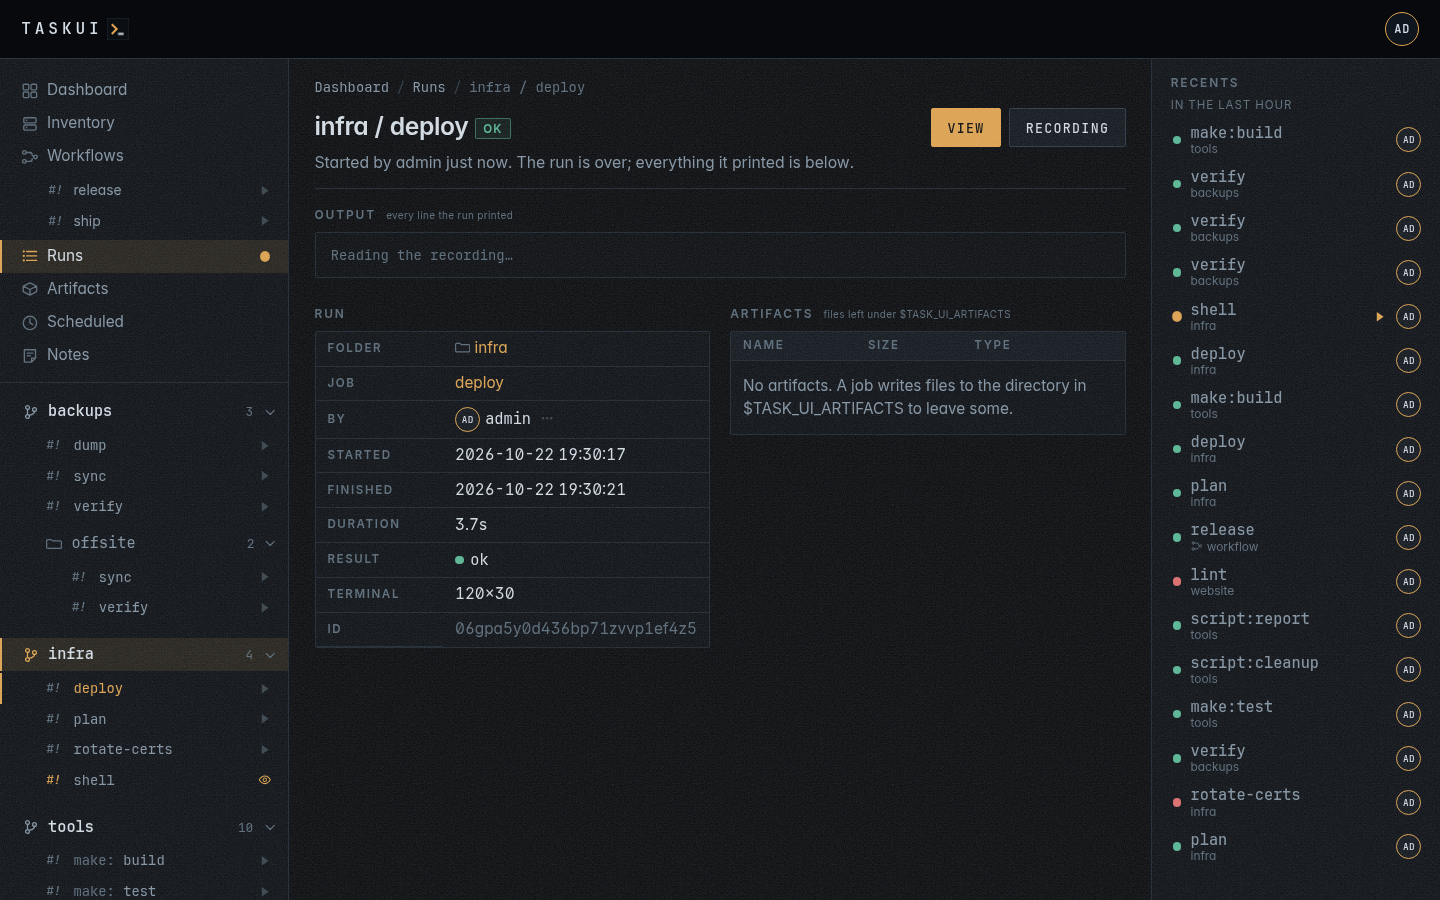
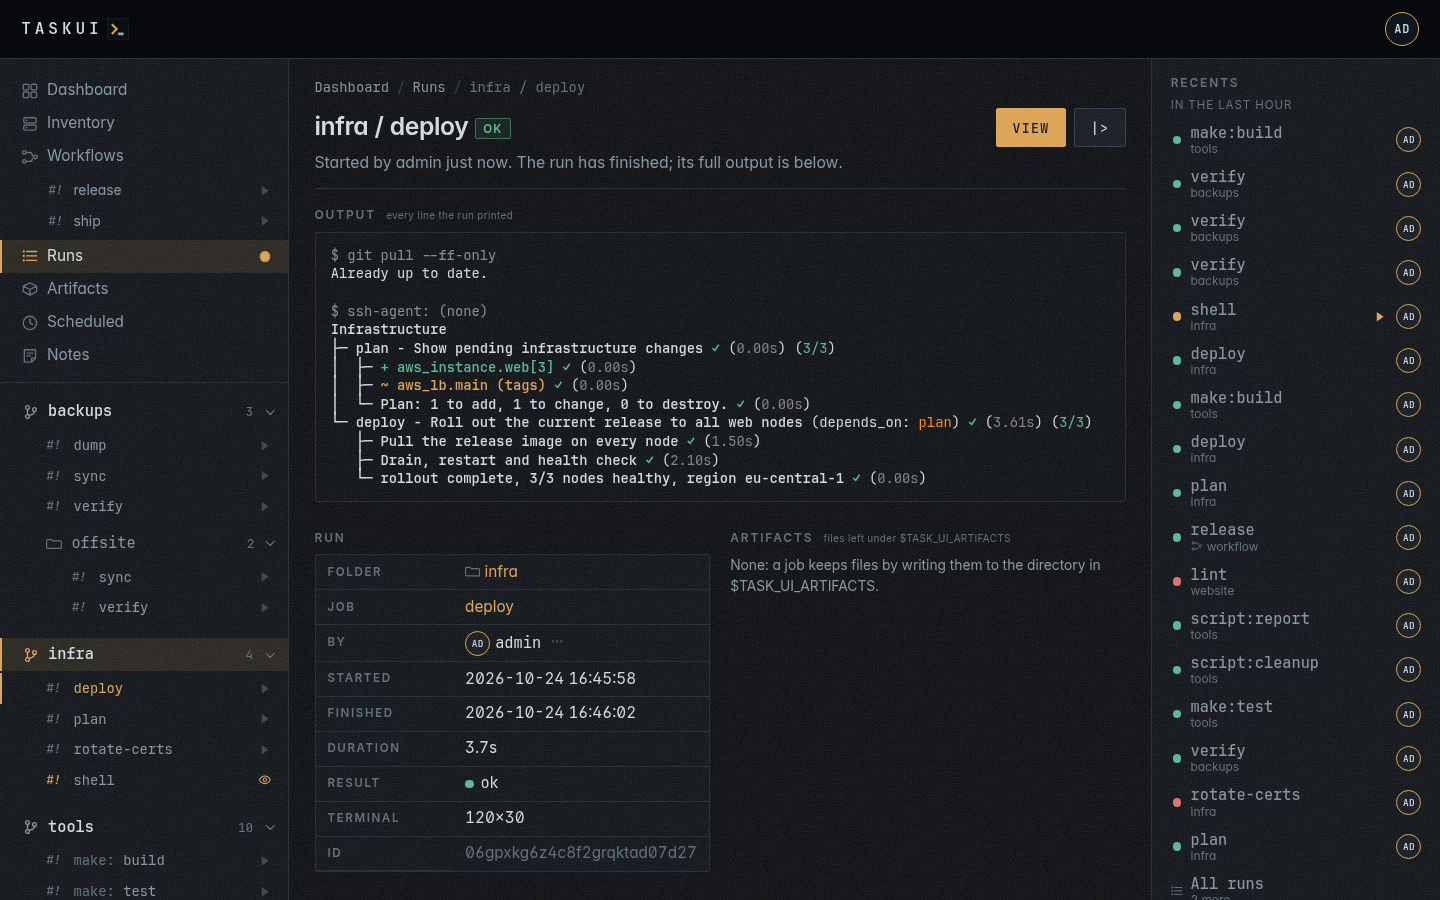
Run page: no Recording download; /cast serves the recording inline to the page's replay and output alone

diff --git a/frontend/retention_integration_test.go b/frontend/retention_integration_test.go
@@ -68,8 +68,7 @@ func TestDataRetention(t *testing.T) {
 	assert.Equal(t, http.StatusForbidden, f.get(t, asViewer, "/settings/retention").Status)
 }
 
-// A run whose recording expired says so on its page, with no Replay and
-// no Recording download.
+// A run whose recording expired says so on its page, with no Replay.
 func TestRun_ExpiredRecording(t *testing.T) {
 	t.Parallel()
 	f := newFixture(t)
@@ -78,6 +77,5 @@ func TestRun_ExpiredRecording(t *testing.T) {
 	assert.Contains(t, body, "The run has finished; its recording expired.")
 	assert.Contains(t, body, "The recording of this run expired under the Data retention settings")
 	assert.NotContains(t, body, `data-replay="`+run.ID+`"`)
-	assert.NotContains(t, body, `/api/runs/`+run.ID+`/cast" download`)
 	assert.NotContains(t, body, `data-output="`+run.ID+`"`)
 }

diff --git a/frontend/view/run_test.go b/frontend/view/run_test.go
@@ -54,3 +54,21 @@ func TestRender_runTitle(t *testing.T) {
 		assert.Contains(t, html, `id="run-subtitle"`, name)
 	}
 }
+
+// A finished run's page replays its recording and reads it into Output,
+// and links no .cast to download.
+func TestRender_runRecording(t *testing.T) {
+	t.Parallel()
+	v, err := view.New()
+	assert.NoError(t, err)
+	page := admin(t)
+	page.Run.State, page.Run.CastPath = model.StateOK, "infra/plan/x.cast"
+	var buf bytes.Buffer
+	assert.NoError(t, v.Render(&buf, "run", page))
+	html := buf.String()
+	assert.Contains(t, html, `data-replay="`+page.Run.ID+`"`)
+	assert.Contains(t, html, `data-output="`+page.Run.ID+`"`)
+	assert.NotContains(t, html, "/cast")
+	assert.NotContains(t, html, `.cast"`)
+	assert.NotContains(t, html, ">Recording</a>")
+}

diff --git a/api/run.go b/api/run.go
@@ -373,7 +373,8 @@ func (h *Handlers) frameText(w http.ResponseWriter, r *http.Request) {
 	_, _ = w.Write([]byte(frame.Text()))
 }
 
-// cast serves the recording of a run.
+// cast serves the recording of a run inline, to the page's replay and
+// output, which read it; no page links it as a file to download.
 func (h *Handlers) cast(w http.ResponseWriter, r *http.Request) {
 	run, err := h.runOf(r)
 	if err != nil {
@@ -389,6 +390,7 @@ func (h *Handlers) cast(w http.ResponseWriter, r *http.Request) {
 		return
 	}
 	w.Header().Set("Content-Type", "application/x-asciicast")
+	w.Header().Set("Content-Disposition", "inline")
 	http.ServeFile(w, r, filepath.Join(h.opts.Recordings.Root, filepath.FromSlash(run.CastPath)))
 }
 

diff --git a/frontend/run_integration_test.go b/frontend/run_integration_test.go
@@ -72,7 +72,7 @@ func TestRun(t *testing.T) {
 	body := f.page(t, asViewer, "/runs/"+run.ID)
 	assert.Contains(t, body, `<h2>infra / plan <span class="badge bad">failed 2</span></h2>`)
 	assert.Contains(t, body, `data-attach="`+run.ID+`">View</button>`)
-	assert.Contains(t, body, `href="/api/runs/`+run.ID+`/cast"`)
+	assert.NotContains(t, body, `/cast"`)
 	assert.Contains(t, body, `<button type="button" class="btn" data-replay="`+run.ID+`" data-replay-title="infra / plan" data-replay-who="ops" title="Replay the recording"`)
 	assert.Contains(t, body, "report.txt")
 	assert.Contains(t, body, "2.0 KB")

diff --git a/api/run_integration_test.go b/api/run_integration_test.go
@@ -198,6 +198,7 @@ func TestRun_Cast(t *testing.T) {
 		return cast.Status == http.StatusOK && strings.Contains(string(cast.Raw), "planned")
 	}, 5*time.Second, 20*time.Millisecond)
 	assert.Contains(t, string(cast.Raw), `"version":2`)
+	assert.Equal(t, "inline", cast.Headers.Get("Content-Disposition"))
 
 	bare := &model.Run{Folder: "infra", Job: "plan", State: model.StateOK}
 	assert.NoError(t, f.opts.Runs.Create(context.Background(), bare))

diff --git a/docs/api.md b/docs/api.md
@@ -74,6 +74,7 @@ route or a tool only for a need these cannot serve, and states the reason.
 | Removed: `encrypt` on `GET /api/workspaces/{folder}/keys`, `"encrypt": true` on its `/keys/generate` and `/keys/upload` (`400`), `rekeyed` there, the `409` of `POST /api/secrets` for a workspace without a key | One encryption key per instance: the instance's encrypts every secret, the workspaces' and the integrations', so a workspace has no encryption key to list, make, rotate or lack. A start re-encrypts the secrets of the workspaces' keys onto the instance's and removes those keys. An export carries a workspace's secrets inside its passphrase, and its SSH keys alone |
 | `kind` on a step of `/api/workflows`, on workflow steps and on a workflow run's steps, the `summary` kind, `description` on workflows; `prompt` and `prompt_folder` on a workflow read empty, and on a request they become its last prompt step | The workflow editor's step list: a workflow is a chain of steps, a command, a prompt or a summary, in any number and order, from a blank workflow. A final prompt beside the steps had a place of its own that no step could move around or repeat, and a summary of the steps had no step that runs after a failure to say why. `kind` is `job`, `workflow`, `prompt` or `summary`; left out, the fields say which, as before. A summary step takes no prompt: Claude gets task-ui's summary instruction, the one of Run and summarize, with the steps before it. The last answer of a prompt or a summary step is the run's answer. A request's `prompt` stays for a client that sends one and becomes the last prompt step, so no client breaks; the columns stay, empty. Schema `workflow_step_with_kind` adds `kind` and turns each workflow's prompt into its last prompt step, `workflow_description` adds `description` |
 | Removed: `env_files` on the jobs of `GET /api/folders` and `GET /api/folders/{id}/actions`, `managed`, `exists` and `keys` on `/api/env` files | task-ui reads no environment source of a folder: atkins and the job tools read the dotenv files they need, and runs get the secrets in their environment. A folder's env files are the ones a user filled, so `/api/env/{folder}` lists those, a file nobody filled reads empty instead of the folder's own, and no variable names come from parsing one |
+| `Content-Disposition: inline` on `GET /api/runs/{id}/cast` | A recording is for replay on the run's page, not for download: the route serves the `.cast` inline to the page's **\|>** and **Output**, which read it, and no page links it as a file |
 
 | Method | Path | Does |
 |--------|------|------|
@@ -83,7 +84,7 @@ route or a tool only for a need these cannot serve, and states the reason.
 | `POST` | `/api/runs` `{folder, dir, job, args, force, reason, cols, rows, summarize}` | starts a run; `job` is a job's ID, `./<path>` for a file of the folder that runs, executable or with a shebang, and not a dot file, or `@<skill>:<job>` for a job of an atkins skill that applies in `dir`, which runs where the skill matched, or `@shell`, an interactive `bash -l` in the folder or `dir`, or `@claude`, Claude Code in one, `403` without the `shell` permission, or `@host:<name>` of the folder `_`, the command in `args` on a host of the inventory, or `@host:*` for a batch on every host with an ssh login, `403` without the `hosts` permission, `400` for the bare `@host`; `@claude-prompt` and `@claude-note` answer `400`; `dir`, a slash path inside the folder, makes `job` one of that directory's own targets, run there, `404` for a directory the folder's Files would not open; `args`, a line split as a shell splits words with nothing expanded, or a list, at most 32 of at most 512 bytes, follow the job's argv after `--`, `400` for a job without `takes_args`; `409` with the run in the way unless forced; `403` out of hours unless forced with a reason; `summarize` asks Claude, when the run ends, for a thread about it on its page, as you, the question "Summarize this run." (see `GET /api/prompts?run=`), `403` without `prompt/edit`, `400` for `@shell`, `@claude` or an interactive job, and nothing when the server restarts before the run ends |
 | `GET` | `/api/runs/{id}` | one run, of a folder you see: a prompt's run, `@claude-prompt`, with `prompt/view`, the Notes agent's, `@claude-note`, with `note/view`, and such runs you started always |
 | `POST` | `/api/runs/{id}/stop`, `/kill` | ends a run |
-| `GET` | `/api/runs/{id}/frame.svg`, `/frame.txt`, `/cast` | the last frame, the recording |
+| `GET` | `/api/runs/{id}/frame.svg`, `/frame.txt`, `/cast` | the last frame; the recording, inline, for the replay and the output on the run's page, not for download |
 | `WS` | `/api/runs/{id}/attach` | binary frames are output; text frames are `{"type":"input"\|"resize"\|"stop"\|"kill"\|"take"\|"release"}` in and `{"type":"status"\|"input"\|"title"\|"chain"}` out; input reaches an interactive job from a window that may run it, and any job's from a window that took input, with the `input` permission |
 | `GET` `DELETE` | `/api/artifacts`, `/api/artifacts/{id}` | list, download a version, delete a record; `DELETE /api/artifacts` empties the tree, its history and the records (`artifact/delete`) |
 | `GET` `POST` | `/api/runs/{id}/summary` | a finished run's summary: `GET` the kept one, `404` without; `POST` returns the kept one or has Claude write it from the end of the output and keeps it; `summary` as markdown, `html`, `kept` (Claude Code integration) |

diff --git a/docs/sitemap.md b/docs/sitemap.md
@@ -12,7 +12,7 @@ row's **⋯** menu; "Delete" and "Remove" are in red, last.
 |------|------|-------|-----------------|-------------|-------|-------|
 | Dashboard | `/` | running terminals as tiles, the control centre of jobs by folder | none | Run, Attach on a tile | none | "No jobs yet." in the control centre |
 | Runs | `/runs` | every run, newest first, with filters; Activity and Tooling folds | none | **View** or **Attach**, `[...]`: open, replay, Summary, Stop, Kill | the filter bar | "No runs match." |
-| Run | `/runs/<id>` | the terminal, its output, the run's details, its artifacts | **View** or **Attach**, Stop, Kill, Report, Recording, Replay | artifacts: `[...]` | the prompt about the run | "None: a job keeps files by writing them to $TASK_UI_ARTIFACTS." |
+| Run | `/runs/<id>` | the terminal, its output, the run's details, its artifacts | **View** or **Attach**, Stop, Kill, Report, Replay | artifacts: `[...]` | the prompt about the run | "None: a job keeps files by writing them to $TASK_UI_ARTIFACTS." |
 | Report | `/runs/<id>/report` | the question and Claude's answer | Run, Claude's run, Job | none | none | none |
 | Workflows | `/workflows` | the workflows, their steps and last run; Recent runs, each with its state dot and its answer folded under a chevron | **Add workflow** | **Run** or **Stop**, `[...]`: Open, Edit, the run going; a recent run: the chevron of its answer | the Prompt box | "No workflows yet." |
 | Add workflow | `/workflows/new` | none | none | none | name and steps, Cancel and Save | none |

diff --git a/docs/guide/runs.md b/docs/guide/runs.md
@@ -246,8 +246,6 @@ attaches to it.
   secret's value and not its name: the secret's read log names the run
   (see [Settings](settings.md#secrets) and [Security](../security.md#secrets)).
 - **Artifacts**: the files the run left (see [Artifacts](artifacts.md)).
-- **Recording** downloads the run as an asciicast file, for `asciinema
-  play`.
 - **|>** replays the recording in the run window as the run printed it,
   idle gaps and all, under a blinking `( * recording )` beside the
   title, with **Pause** and **Restart**. It reads the recording and
@@ -258,7 +256,7 @@ attaches to it.
 Once its recording expires under the
 [Data retention](settings.md#data-retention) settings, a run keeps its
 page, its details and its artifacts: **Output** says the recording
-expired, **Recording** and **|>** go, its frame says so, and a prompt
+expired, **|>** goes, its frame says so, and a prompt
 about the run reads that the run has no output any more.
 
 While the run is in progress the page shows its terminal as it looks now,
